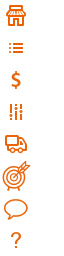
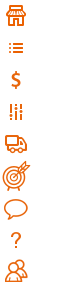
d0606

Changed region(s): [[0.0312, 0.25, 0.4688, 1.0], [0.0938, 0.0, 0.4062, 0.2188]]

diff --git a/assets/css/app.css b/assets/css/app.css
@@ -6471,6 +6471,15 @@ select {
   /*transition: background-position-x .1s ease; */
 }
 
+.tab-users:hover .icon {
+  background-position-x: -3px; }
+.tab-users .icon {
+  background-position: 30px -255px;
+  /*transition: background-position-x .1s ease; */
+}
+.dd.active .tab-users .icon, .tab-title.active .tab-users .icon {
+  background-position-x: -3px; }
+
 .tab-chat:hover .icon {
   background-position-x: -3px; }
 .tab-chat .icon {

diff --git a/application/controllers/users.php b/application/controllers/users.php
@@ -1,0 +1,104 @@
+<?php
+/**
+ * Created by PhpStorm.
+ * User: bok
+ * Date: 9/21/14
+ * Time: 9:19 PM
+ */
+require PARSE_SDK_INC;
+
+error_reporting(E_ALL ^ (E_NOTICE | E_WARNING));
+
+define('USER_STATUS_REGISTER', 0);
+define('USER_STATUS_APPROVE',  1);
+define('USER_STATUS_DENY',     2);
+
+
+use Parse\ParseClient;
+use Parse\ParseUser;
+use Parse\ParseSessionStorage;
+use Parse\ParseException;
+use Parse\ParseObject;
+use Parse\ParseQuery;
+
+class Users extends CI_Controller{
+
+    private static $app_id     =   'upTrZvYWTbzoZKTI9Up9uGWYHiamL3LCWNvfiTrx';
+    private static $rest_key   =   'NUyL27OK8vIdZGtiqwskfVyPAiCT0Z6zCm7d3NXG';
+    private static $master_key =   'UXkRORqhyp22XBg28k0EOxSZitOgVRv5gaDWFHJ8';
+
+    public function __construct(){
+
+        parent::__construct();
+        //TODO:  Add extra constructor Code
+        ParseClient::initialize(self::$app_id, self::$rest_key, self::$master_key);
+        $this->load->library("session");
+        $this->load->helper('url');
+
+    }
+
+    public function index(){
+        if (!$this->session->userdata('isSigned')) {
+            redirect('auth/index');
+        }
+
+        $all_users = $this->getUserlist();
+        $result_array = array();
+        $this->data['users'] = array();
+        $config = array();
+        $config["base_url"] = base_url() . "users";
+        $config["total_rows"] = count($all_users);
+        $config["per_page"] = 4;
+        $config["uri_segment"] = 2;
+
+        $this->pagination->initialize($config);
+        $page = ($this->uri->segment(2)) ? $this->uri->segment(2) : 0;
+
+        $str_links = $this->pagination->create_links();
+        $this->data['links'] = explode('&nbsp;',$str_links );
+
+        for ($i = $page; $i < ($page + 4); $i++) {
+            try {
+                if ($all_users[$i]) {
+                    $cUser = $all_users[$i];
+
+                    $query = new ParseQuery("Stores");
+                    $query->notEqualTo("objectId", $this->session->userdata('userid'));
+                    
+                    $result = $query->find();
+                    $cUser->business_name = 
+                    $result_array[] = $all_users[$i];
+                } else {
+                    break;
+                }
+            } catch (Exception $e) {
+                break;
+            }
+        }
+
+        $this->data['users'] = $result_array;
+        $this->data['page'] = "users";
+        $this->load->view('users/index', $data);
+    }
+
+    private function getUserList() {
+        $query = new ParseQuery("_Users");
+        if (!user_can(UP_ALL)) 
+            $query->notEqualTo("objectId", $this->session->userdata('userid'));
+        $result = $query->find();
+        $resultArray = array();
+        for($i = 0; $i < count($result); $i++) {
+            $object = $result[$i];
+            $store = new MUser();
+            $store->user_id = $object->getObjectId();
+            $store->user_name = $object->get("fullname");
+            $store->user_email = $object->get("email");
+            $store->user_phone = $object->get("phone");
+            $store->user_status = $object->get("approved");
+            $store->business_type = $object->get("permission");
+
+            $resultArray[] = $store;
+        }
+        return $resultArray;
+    }
+}

diff --git a/application/controllers/inventory.php b/application/controllers/inventory.php
@@ -90,20 +90,20 @@ class Inventory extends CI_Controller{
     private function getStoreList() {
         $query1 = new ParseQuery("Stores");
 
+        if (!user_can(UP_ALL))
+            $query1->equalTo("storeOwner", $this->session->userdata('userid'));
+
         $result1 = $query1->find();
         $resultArray1 = array();
-        $userid = $this->session->userdata('userid');
         for($i = 0; $i < count($result1); $i++) {
             $object = $result1[$i];
             
-            if ($object->get("storeOwner") == $userid || user_can(UP_ALL)) {
+            $store = new MStore();
+            $store->store_id = $object->getObjectId();
+            $store->store_name = $object->get("storeName");
 
-                $store = new MStore();
-                $store->store_id = $object->getObjectId();
-                $store->store_name = $object->get("storeName");
+            $resultArray1[] = $store;
 
-                $resultArray1[] = $store;
-            }
         }
         return $resultArray1;
     }
@@ -123,7 +123,10 @@ class Inventory extends CI_Controller{
     private function getInventorylist() {
        
         $query = new ParseQuery("Inventory");
-        $query->equalTo("createdBy", $this->session->userdata['permission']);
+
+        if (!user_can(UP_ALL))
+            $query->equalTo("inventoryOwner", $this->session->userdata['userid']);
+        
         $result = $query->find();
         $resultArray = array();
         for($i = 0; $i < count($result); $i++) {
@@ -200,6 +203,7 @@ class Inventory extends CI_Controller{
         $query = new ParseQuery("Inventory");
         $inventory = $query->get($this->input->post("inventory_id1"));
 
+        $inventory->set("inventoryOwner", $this->session->userdata['userid']);
         $inventory->set("inventoryName", $this->input->post("name1"));
         $inventory->set("inventorySku", $this->input->post("sku1"));
         $inventory->set("inventoryDistributor", $this->input->post("distributor1"));

diff --git a/application/controllers/store.php b/application/controllers/store.php
@@ -78,25 +78,24 @@ class Store extends CI_Controller{
     
     private function getStoreList() {
         $query = new ParseQuery("Stores");
+        if (!user_can(UP_ALL)) 
+            $query->equalTo("storeOwner", $this->session->userdata('userid'));
         $result = $query->find();
         $resultArray = array();
-        $userid = $this->session->userdata('userid');
         for($i = 0; $i < count($result); $i++) {
             $object = $result[$i];
-            if ($object->get("storeOwner") == $userid || user_can(UP_ALL)) {
-                $store = new MStore();
-                $store->store_id = $object->getObjectId();
-                $store->store_name = $object->get("storeName");
-                $store->store_address = $object->get("storeAddress");
-                $store->store_from_monday = $object->get("fromMonday");
-                $store->store_to_monday = $object->get("toMonday");
+            $store = new MStore();
+            $store->store_id = $object->getObjectId();
+            $store->store_name = $object->get("storeName");
+            $store->store_address = $object->get("storeAddress");
+            $store->store_from_monday = $object->get("fromMonday");
+            $store->store_to_monday = $object->get("toMonday");
 
-                if ($object->get("storeIcon")) {
-                    $store->store_logo = $object->get("storeIcon");
-                }
-                $store->store_description = $object->get("storeDescription");
-                $resultArray[] = $store;
+            if ($object->get("storeIcon")) {
+                $store->store_logo = $object->get("storeIcon");
             }
+            $store->store_description = $object->get("storeDescription");
+            $resultArray[] = $store;
         }
         return $resultArray;
     }

diff --git a/application/controllers/marketing.php b/application/controllers/marketing.php
@@ -18,7 +18,6 @@ use Parse\ParseObject;
 use Parse\ParseQuery;
 use Parse\ParseFile;
 
-
 class Marketing extends CI_Controller{
 
     private static $app_id     =   'upTrZvYWTbzoZKTI9Up9uGWYHiamL3LCWNvfiTrx';
@@ -76,6 +75,9 @@ class Marketing extends CI_Controller{
     
     private function getMarketinglist() {
         $query = new ParseQuery("Campaign");
+
+        if (!user_can(UP_ALL))
+            $query->equalTo("campaignOwner", $this->session->userdata("userid"));
         $result = $query->find();
         $resultArray = array();
 
@@ -154,6 +156,7 @@ class Marketing extends CI_Controller{
         $marketing->set("campaignDescription", $this->input->post("text"));
         $marketing->set("campaignImageUrl", $this->input->post("imageURL"));
         $marketing->set("campaignVideoUrl", $this->input->post("videoURL"));
+        $marketing->set("campaignOwner", $this->session->userdata("userid"));
         
         try {
             $marketing->save();
@@ -186,6 +189,7 @@ class Marketing extends CI_Controller{
         $marketing->set("campaignDescription", $this->input->post("text"));
         $marketing->set("campaignImageUrl", $this->input->post("imageURL"));
         $marketing->set("campaignVideoUrl", $this->input->post("videoURL"));
+        $marketing->set("campaignOwner", $this->session->userdata("userid"));
         
         try {
             $marketing->save();

diff --git a/application/controllers/order.php b/application/controllers/order.php
@@ -18,7 +18,6 @@ use Parse\ParseObject;
 use Parse\ParseQuery;
 use Parse\ParseFile;
 
-
 class Order extends CI_Controller {
 
     private static $app_id     =   'upTrZvYWTbzoZKTI9Up9uGWYHiamL3LCWNvfiTrx';
@@ -28,6 +27,7 @@ class Order extends CI_Controller {
     public function __construct() {
 
         parent::__construct();
+        session_start();
         ParseClient::initialize(self::$app_id, self::$rest_key, self::$master_key);
         $this->load->model('morder');
         $this->load->model('minventory');
@@ -84,7 +84,8 @@ class Order extends CI_Controller {
         } else if ($permission == "distributor") {
             $this->load->view('order/distributor_order', $data);
         } else {
-            die("invalid permission");
+            // die("invalid permission");
+            $this->load->view('order/index', $data);
         }
     }
 
@@ -135,9 +136,16 @@ class Order extends CI_Controller {
        
         $query = new ParseQuery("MyOrders");
 
+        $currentUser = ParseUser::getCurrentUser();
+
+        if (!user_can(UP_ALL))
+            $query->equalTo("ownerId", $currentUser);
+        
         $query->notEqualTo("inStock", NULL);
 
         $result = $query->find();
+
+        // print_r($currentUser);exit;
 
         $resultArray = array();
         for($i = 0; $i < count($result); $i++) {

diff --git a/application/views/marketing/index.php b/application/views/marketing/index.php
@@ -78,6 +78,11 @@
                                             		</tr>
                                             		<?php
                                             	}
+                                                if (count($marketings) == 0) {?>
+                                                    <tr>
+                                                        <td colspan="10">Sorry, There is no data to show.</td>
+                                                    </tr>
+                                                <?php }
                                             	?>
                                                
                                             </tbody>

diff --git a/application/views/_partials/side_bar.php b/application/views/_partials/side_bar.php
@@ -32,6 +32,11 @@
 	        <a class="tab-marketing" href="<?= base_url()?>marketing" title="Marketing">
 	            <span class="icon"></span> Marketing</a>
 	    </li>
+	    <?php } if (user_can(UP_ALL)) { ?>
+	    <li class="tab-title <?php echo ($this->data['page'] == 'users')? 'active': ''; ?>">
+	        <a class="tab-users" href="<?= base_url()?>users" title="Users">
+	            <span class="icon"></span> Users</a>
+	    </li>
 	    <?php } ?>
 	</ul>
 	<ul id="sidebottomnav" class="tabs vertical">

diff --git a/application/views/inventory/distributor.php b/application/views/inventory/distributor.php
@@ -79,6 +79,12 @@
                         		</tr>
                         		<?php
                         	}
+
+                            if (count($this->data['inventories']) == 0) {?>
+                                <tr>
+                                    <td colspan="10">Sorry, There is no data to show.</td>
+                                </tr>
+                            <?php }
                             ?>
                             </tbody>
                         </table>

diff --git a/application/views/order/index.php b/application/views/order/index.php
@@ -58,6 +58,11 @@
                         	</tr>
                         		<?php
                         	}
+                            if (count($orders) == 0) {?>
+                                <tr>
+                                    <td colspan="10">Sorry, There is no data to show.</td>
+                                </tr>
+                            <?php }
                         	?>
                         </tbody>
                     </table>                    

diff --git a/application/views/order/distributor_order.php b/application/views/order/distributor_order.php
@@ -89,6 +89,12 @@
                         	</tr>
                             <?php
                         	}
+
+                            if (count($orders) == 0) {?>
+                                <tr>
+                                    <td colspan="10">Sorry, There is no data to show.</td>
+                                </tr>
+                            <?php }
                         	?>
                         </tbody>
                     </table>

diff --git a/application/models/muser.php b/application/models/muser.php
@@ -1,0 +1,27 @@
+<?php
+/**
+ * Created by PhpStorm.
+ * User: win
+ * Date: 1/7/15
+ * Time: 9:35 PM
+ */
+
+use Parse\ParseException;
+use Parse\ParseObject;
+use Parse\ParseQuery;
+
+class MUser extends CI_Model {
+
+    var $user_id;
+    var $user_name;
+    var $user_email;
+    var $user_phone;
+    var $business_name;
+    var $business_type;
+    var $user_status;
+
+    public function __construct()
+    {
+        parent::__construct();
+    }
+}
